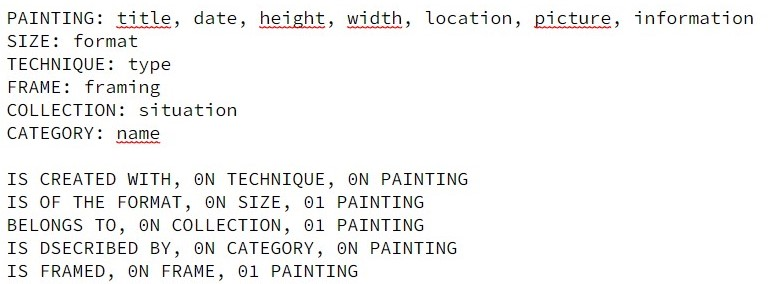
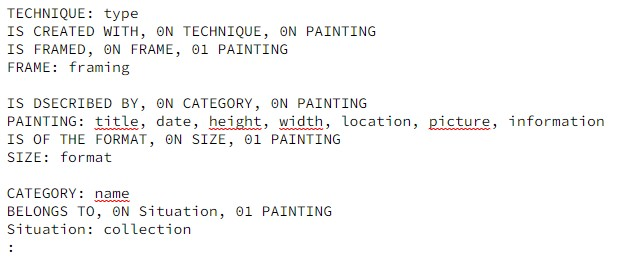
Documentation modification because of Entity Name Collection

diff --git a/Docs/DataDictionnary.md b/Docs/DataDictionnary.md
@@ -50,21 +50,21 @@
 | created_at   | DATETIME     | NOT NULL, CURRENT_TIMESTAMP                     | Date d'enregistrement de l'encadrement           |
 | updated_at   | DATETIME     | NULL                                            | Date de mise à jour de l'encadrement             |
 
-## Collection
+## (Collection =>) Situation
 | Field        | Type         | Specificity                                     | Description                                      |
 | ------------ | ------------ | ----------------------------------------------- | ------------------------------------------------ |
 | id           | INT          | PRIMARY KEY, NOT NULL, UNSIGNED, AUTO_INCREMENT | Identifiant de la situation de collection        |
-| situation    | VARCHAR (40) | NOT NULL, UNIQUE                                | Situation de l'oeuvre, propriétaire actuel       |
+| collection   | VARCHAR (40) | NOT NULL, UNIQUE                                | Situation de l'oeuvre, propriétaire actuel       |
 | created_at   | DATETIME     | NOT NULL, CURRENT_TIMESTAMP                     | Date d'enregistrement de la vente                |
 | updated_at   | DATETIME     | NULL                                            | Date de mise à jour de la vente                  |
 
-## Belongs to
+## Painting_category
 | Field        | Type         | Specificity                                     | Description                                      |
 | ------------ | ------------ | ----------------------------------------------- | ------------------------------------------------ |
 | peinture_id  | INT          | NOT NULL, UNSIGNED                              | Identifiant de la peinture                       |
 | categorie_id | INT          | NOT NULL, UNSIGNED                              | Identifiant de la catégorie                      |
 
-## Is created with
+## Painting_technique
 | Field        | Type         | Specificity                                     | Description                                      |
 | ------------ | ------------ | ----------------------------------------------- | ------------------------------------------------ |
 | peinture_id  | INT          | NOT NULL, UNSIGNED                              | Identifiant de la peinture                       |
